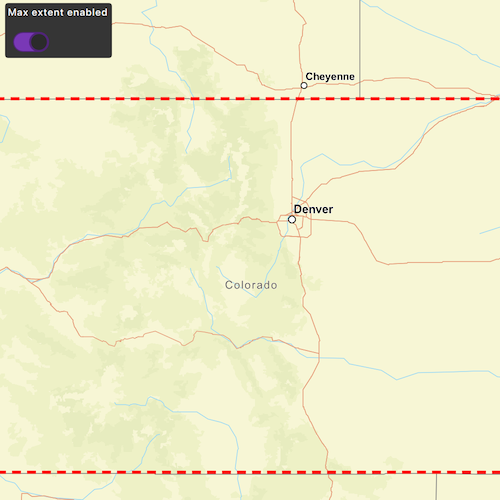
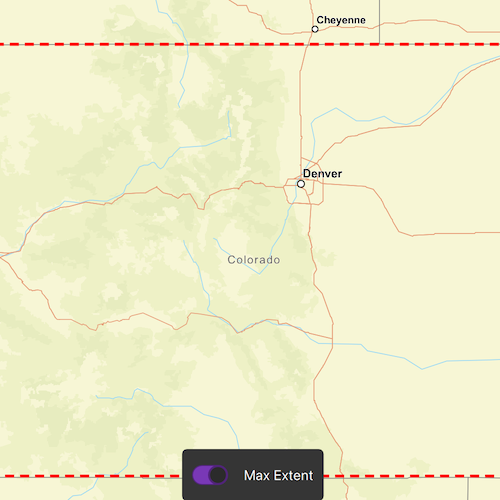
SetMaxExtent(Maps) - changed switch positioning and made font bigger.

diff --git a/CppSamples/Maps/SetMaxExtent/SetMaxExtent.qml b/CppSamples/Maps/SetMaxExtent/SetMaxExtent.qml
@@ -30,31 +30,22 @@ Item {
             // Set and keep the focus on MapView to enable keyboard navigation
             forceActiveFocus();
         }
-    }
 
-    Rectangle {
-        anchors {
-            margins: 8
-            left: parent.left
-            top: parent.top
-        }
-        width: childrenRect.width
-        height: childrenRect.height
-        color: palette.base
-        radius: 3
-
-        ColumnLayout {
-            Label {
-                text: qsTr("Max extent enabled")
-                Layout.fillWidth: true
-                Layout.margins: 3
-                font {
-                    weight: Font.DemiBold
-                    pointSize: 10
-                }
+        Rectangle {
+            anchors {
+                horizontalCenter: parent.horizontalCenter
+                bottom: view.attributionTop
             }
+            width: maxExtentSwitch.width + 20
+            height: maxExtentSwitch.height + 20
+            color: palette.base
+            radius: 5
+
+
             Switch {
                 id: maxExtentSwitch
+                anchors.centerIn: parent
+                text: qsTr("Max Extent")
                 checked: true
                 onClicked: model.toggleMaxExtent();
             }
